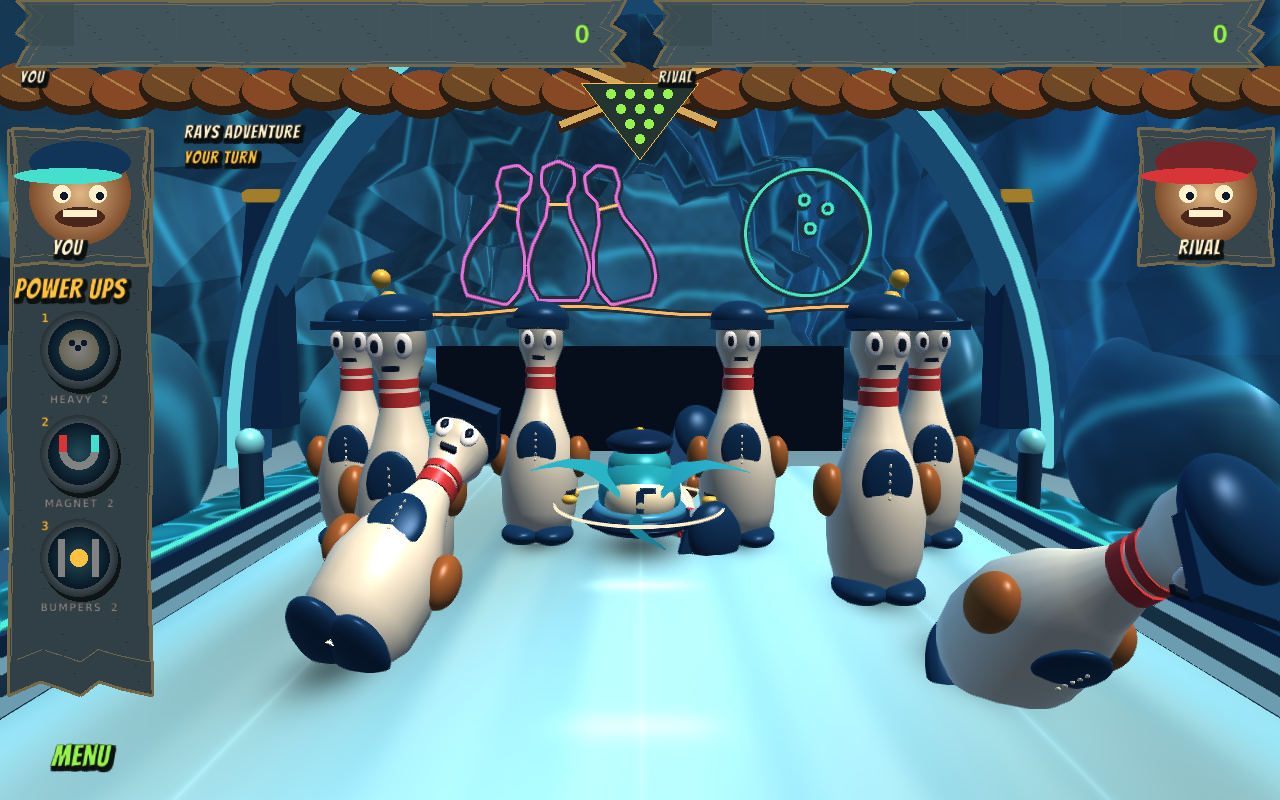
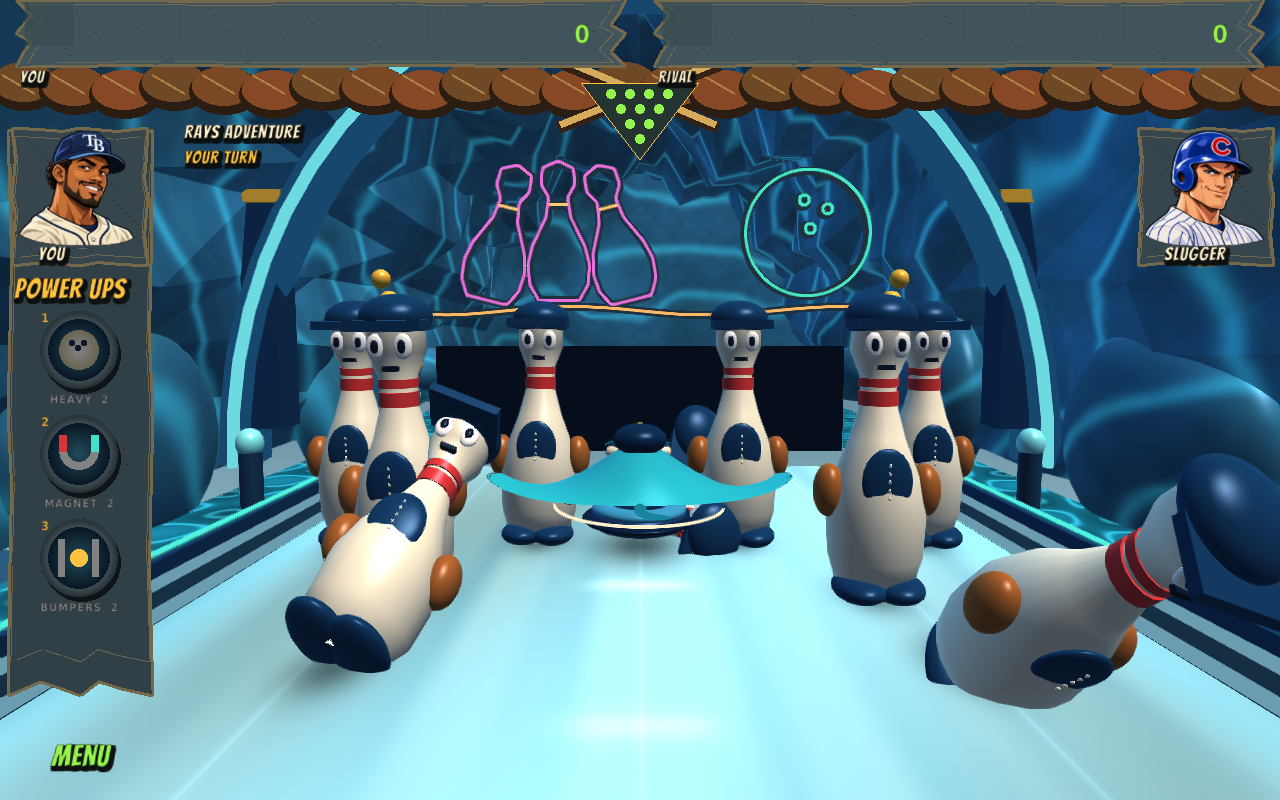
Rebuild ray mascot mesh and introduce illustrated baseball rivals

Changed region(s): [[0.375, 0.5312, 0.625, 0.6875], [0.875, 0.1562, 1.0, 0.3438], [0.0, 0.1562, 0.125, 0.3438]]

diff --git a/native/src/art.hpp b/native/src/art.hpp
@@ -1,5 +1,6 @@
 #pragma once
 #include "campaign.hpp"
+#include "ray_model.hpp"
 #include "raylib.h"
 #include "raymath.h"
 #include "rlgl.h"
@@ -7,7 +8,7 @@
 namespace geo = bowling::geometry;
 inline constexpr float sceneryDepthScale = geo::sceneryDepthScale;
 struct Art {
-    Model cube{}, sphere{}, cylinder{}, pin{}, wing{}, tube{}, course{};
+    Model cube{}, sphere{}, cylinder{}, pin{}, wing{}, tube{}, course{}, rayBody{};
     Shader shader{};
     std::array<Texture2D, 64> skins{};
     RenderTexture2D scoreboard{};
@@ -162,9 +163,10 @@ void main(){uv=vertexTexCoord;normal=normalize(mat3(matNormal)*vertexNormal);wor
         cylinder = LoadModelFromMesh(GenMeshCylinder(1, 1, 16));
         pin = LoadModelFromMesh(pinMesh());
         wing = LoadModelFromMesh(wingMesh());
+        rayBody = LoadModelFromMesh(makeRayBody());
         tube = LoadModelFromMesh(tubeMesh());
         course = LoadModelFromMesh(courseMesh());
-        for (Model *m : {&cube, &sphere, &cylinder, &pin, &wing, &tube, &course})
+        for (Model *m : {&cube, &sphere, &cylinder, &pin, &wing, &tube, &course, &rayBody})
             m->materials[0].shader = shader;
     }
     void box(Vector3 p, Vector3 scale, Color c) {
@@ -466,53 +468,57 @@ void main(){uv=vertexTexCoord;normal=normalize(mat3(matNormal)*vertexNormal);wor
             for (float z : {-.20f, .20f})
                 orb({side * .96f, .12f, z}, {.11f, .07f, .08f}, gold);
         }
-        orb({0, .19f, 0}, {.58f, .50f, .69f}, {31, 155, 176, 255});
-        orb({0, .16f, -.30f}, {.49f, .39f, .42f}, cream);
-        box({0, .20f, -.704f}, {.10f, .31f, .025f}, {18, 58, 97, 255});
-        box({-.10f, .35f, -.69f}, {.22f, .07f, .025f}, {18, 58, 97, 255});
-        for (int side : {-1, 1}) {
-            rlPushMatrix();
-            if (side < 0)
-                rlScalef(-1, 1, 1);
-            rlDisableBackfaceCulling();
-            rlRotatef(10 + std::sin(time * 6) * 7, 0, 0, 1);
-            DrawModel(wing, {0, .05f, 0}, 1.08f, {32, 161, 182, 255});
-            rlEnableBackfaceCulling();
-            rlPopMatrix();
-        }
+        // Unified ray: swept fins, domed back and ivory underside, rather than a humanoid torso.
         rlPushMatrix();
-        rlTranslatef(0, .50f, .1f);
-        if (ready)
-            rlRotatef(155 + std::sin(time) * 8, 0, 1, 0);
-        orb({0, .05f, .03f}, {.45f, .31f, .46f}, {40, 164, 182, 255});
-        orb({0, -.06f, .32f}, {.34f, .15f, .24f}, {173, 222, 215, 255});
-        for (float x : {-.19f, .19f}) {
-            float blink = std::fmod(time + 1, 5) < .13f ? .03f : .14f;
-            orb({x, .19f, .36f}, {.145f, blink, .10f}, WHITE);
-            orb({x, .20f, .44f}, {.068f, blink * .8f, .03f}, {20, 48, 68, 255});
-            orb({x - .02f, .24f, .465f}, {.023f, .027f, .01f}, WHITE);
-            beam({x - .10f, .36f, .35f}, {x + .08f, .34f, .35f}, .022f, ink);
+        rlTranslatef(0, .12f, 0);
+        rlRotatef(ready ? 180.f + std::sin(time * 1.5f) * 5.f : bank * 2, 0, 1, 0);
+        rlRotatef(std::sin(time * 4) * 2.5f, 0, 0, 1);
+        rlDisableBackfaceCulling();
+        DrawModel(rayBody, {0, 0, 0}, 1, WHITE);
+        rlEnableBackfaceCulling();
+        // Almond eyes sit on the face, with small highlights and a soft lower eyelid.
+        for (int side : {-1, 1}) {
+            float x = side * .28f, blink = std::fmod(time + 1, 5) < .12f ? .025f : .115f;
+            orb({x, .55f, .57f}, {.205f, blink, .125f}, cream);
+            orb({x - side * .025f, .56f, .677f}, {.089f, blink * .8f, .043f}, {12, 47, 73, 255});
+            orb({x - side * .045f, .61f, .712f}, {.027f, .031f, .012f}, WHITE);
+            for (int i = 0; i < 12; ++i) {
+                float t = i / 11.f;
+                Vector3 a{x - .18f + t * .36f, .66f + .055f * std::sin(t * PI), .61f};
+                Vector3 b{x - .18f + (t + .09f) * .36f, .66f + .055f * std::sin((t + .09f) * PI), .61f};
+                beam(a, b, .018f, {16, 85, 105, 255});
+            }
         }
-        for (int i = 0; i < 8; ++i) {
-            float a = PI * .15f + i * PI * .7f / 7;
-            orb({std::cos(a) * .20f, -.04f - std::sin(a) * .055f, .53f}, {.04f, .018f, .015f}, ink);
+        // Wide curved smile follows the snout, with a continuous ivory teeth ribbon.
+        for (int i = 0; i < 24; ++i) {
+            float x = -.39f + i * .0325f, xx = x + .0325f;
+            float y = .39f - .09f * (1 - x * x / .1521f), yy = .39f - .09f * (1 - xx * xx / .1521f);
+            beam({x, y, .93f}, {xx, yy, .93f}, .032f, {12, 54, 73, 255});
+            beam({x, y + .022f, .95f}, {xx, yy + .022f, .95f}, .012f, cream);
         }
-        orb({0, .38f, 0}, {.47f, .18f, .44f}, {15, 42, 79, 255});
-        orb({0, .34f, .38f}, {.50f, .055f, .34f}, {19, 56, 94, 255});
-        orb({0, .56f, 0}, {.055f, .035f, .055f}, gold);
-        box({0, .43f, .41f}, {.09f, .15f, .02f}, cream);
-        box({0, .49f, .41f}, {.23f, .04f, .02f}, cream);
-        rlPopMatrix();
-        Vector3 last{0, 0, -.5f};
-        for (int i = 1; i <= 10; ++i) {
-            float t = i / 10.f;
-            Vector3 next{std::sin(time * 3 + t * 3) * t * .30f, -.04f - t * .1f, -.5f - t * 1.2f};
-            DrawCylinderEx(last, next, .12f * (1 - t) + .015f, .1f * (1 - t) + .008f, 10,
-                           {27, 129, 153, 255});
+        // Small backward-set cap keeps the face unobstructed.
+        orb({0, .83f, -.13f}, {.37f, .22f, .34f}, {12, 39, 75, 255});
+        orb({0, .72f, .12f}, {.41f, .035f, .29f}, {18, 56, 93, 255});
+        orb({0, 1.05f, -.13f}, {.035f, .025f, .035f}, gold);
+        sign(teamLogos[9], {0, .81f, .212f}, -.24f, .20f, true);
+        // Flexible, tapered whip tail trails behind the whole body.
+        Vector3 last{0, .09f, -.95f};
+        for (int i = 1; i <= 30; ++i) {
+            float t = i / 30.f;
+            Vector3 next{std::sin(time * 3 - t * 4) * t * .32f, .09f + .26f * t * t, -.95f - t * 1.65f};
+            DrawCylinderEx(last, next, .065f * (1 - (t - 1.f / 30)) + .008f, .065f * (1 - t) + .008f, 12,
+                           {26, 131, 157, 255});
             last = next;
         }
+        // Gill lines on the shoulders add readable anatomy without extra body lumps.
+        for (int side : {-1, 1})
+            for (int i = 0; i < 3; ++i)
+                beam({side * (.5f + i * .08f), .46f - i * .04f, .05f},
+                     {side * (.53f + i * .08f), .40f - i * .04f, -.16f}, .012f, {16, 104, 125, 255});
+        rlPopMatrix();
         rlPopMatrix();
     }
+
     void landmarks(float time) {
         Color brick = {145, 72, 48, 255};
         if (arena == 0)
@@ -979,7 +985,8 @@ void main(){uv=vertexTexCoord;normal=normalize(mat3(matNormal)*vertexNormal);wor
         }
         if (aim && mascot) {
             float pull = slingPower * 2.7f;
-            Vector3 center{ballPos.x + shot.aim * 1.6f, .70f, ballPos.z - pull};
+            // Sling attaches to the front of the tube, below the ray's fins.
+            Vector3 center{ballPos.x + shot.aim * 1.6f, .40f, ballPos.z - pull - 1.f};
             for (int side : {-1, 1}) {
                 cyl({side * 4.8f, .04f, 2.4f}, .24f, 1.3f, {24, 69, 110, 255});
                 orb({side * 4.8f, 1.4f, 2.4f}, {.31f, .34f, .31f}, gold);
@@ -999,7 +1006,7 @@ void main(){uv=vertexTexCoord;normal=normalize(mat3(matNormal)*vertexNormal);wor
         EndMode3D();
     }
     void close() {
-        for (Model m : {cube, sphere, cylinder, pin, wing, tube, course})
+        for (Model m : {cube, sphere, cylinder, pin, wing, tube, course, rayBody})
             UnloadModel(m);
         for (auto t : skins)
             UnloadTexture(t);

diff --git a/native/src/ray_model.hpp b/native/src/ray_model.hpp
@@ -1,0 +1,70 @@
+#pragma once
+#include "raylib.h"
+#include "raymath.h"
+#include <cmath>
+// A single closed, smooth stingray body. Upper and lower surfaces meet at the fin edge.
+inline Mesh makeRayBody() {
+    constexpr int rings = 18, sides = 96;
+    Mesh m{};
+    m.vertexCount = 2 * rings * sides * 6;
+    m.triangleCount = m.vertexCount / 3;
+    m.vertices = (float *)MemAlloc(m.vertexCount * 3 * sizeof(float));
+    m.normals = (float *)MemAlloc(m.vertexCount * 3 * sizeof(float));
+    m.texcoords = (float *)MemAlloc(m.vertexCount * 2 * sizeof(float));
+    m.colors = (unsigned char *)MemAlloc(m.vertexCount * 4);
+    auto point = [](float r, float a, bool top) {
+        float s = std::sin(a), c = std::cos(a);
+        float x = 2.05f * s * r,
+              z = (c * (c > 0 ? .98f : 1.12f) - .36f * std::pow(std::abs(s), 3.f)) * r;
+        float center = std::exp(-x * x * 1.4f) * (1 - r * r);
+        float edge = .13f + .26f * r * r * r * std::pow(std::abs(s), 4.f);
+        return Vector3{x, edge + (top ? .61f : -.16f) * center, z};
+    };
+    int n = 0;
+    auto put = [&](float r, float a, bool top) {
+        Vector3 p = point(r, a, top);
+        float e = .001f;
+        Vector3 tangent = Vector3Subtract(point(std::max(.001f, r), a + e, top),
+                                          point(std::max(.001f, r), a - e, top));
+        Vector3 radial = Vector3Subtract(point(r + e, a, top), point(r - e, a, top));
+        Vector3 normal = Vector3Normalize(Vector3CrossProduct(tangent, radial));
+        if ((top && normal.y < 0) || (!top && normal.y > 0))
+            normal = Vector3Negate(normal);
+        m.vertices[n * 3] = p.x;
+        m.vertices[n * 3 + 1] = p.y;
+        m.vertices[n * 3 + 2] = p.z;
+        m.normals[n * 3] = normal.x;
+        m.normals[n * 3 + 1] = normal.y;
+        m.normals[n * 3 + 2] = normal.z;
+        m.texcoords[n * 2] = p.x / 4.2f + .5f;
+        m.texcoords[n * 2 + 1] = p.z / 2.4f + .5f;
+        Color color = top ? Color{35, (unsigned char)(153 + 30 * r), (unsigned char)(179 + 25 * r), 255}
+                          : Color{229, 234, 202, 255};
+        for (int j = 0; j < 4; ++j)
+            m.colors[n * 4 + j] = ((unsigned char *)&color)[j];
+        ++n;
+    };
+    for (bool top : {true, false})
+        for (int r = 0; r < rings; ++r)
+            for (int a = 0; a < sides; ++a) {
+                float r0 = float(r) / rings, r1 = float(r + 1) / rings, a0 = a * 2 * PI / sides,
+                      a1 = (a + 1) * 2 * PI / sides;
+                if (top) {
+                    put(r0, a0, top);
+                    put(r1, a1, top);
+                    put(r1, a0, top);
+                    put(r0, a0, top);
+                    put(r0, a1, top);
+                    put(r1, a1, top);
+                } else {
+                    put(r0, a0, top);
+                    put(r1, a0, top);
+                    put(r1, a1, top);
+                    put(r0, a0, top);
+                    put(r1, a1, top);
+                    put(r0, a1, top);
+                }
+            }
+    UploadMesh(&m, false);
+    return m;
+}

diff --git a/native/src/ui.hpp b/native/src/ui.hpp
@@ -48,7 +48,7 @@ inline void panel(Rectangle r, Color c) {
         DrawLine(x, y, x + 3, y + 1, {0, 0, 0, 30});
     }
 }
-inline void baseballHud() {
+inline void baseballHud(Texture2D portraits, int rival) {
     // Interlocking leather pads and crossed bats frame the scene below the scores.
     for (int i = 0; i < 26; ++i) {
         float x = i * 50.f;
@@ -67,20 +67,16 @@ inline void baseballHud() {
             DrawCircle(640 + (col - row * .5f) * 19, 139 - row * 15, 5, {150, 242, 77, 255});
     panel({8, 130, 145, 566}, {49, 64, 70, 255});
     title("POWER UPS", 14, 274, 30, gold);
-    // Original baseball character portraits, framed like collectible player cards.
+    // Vector-style illustrated busts replace the primitive oval/rectangle faces.
+    const char *names[] = {"YOU", "SLUGGER", "UMPIRE", "BALL BOY"};
     for (int side = 0; side < 2; ++side) {
         float x = side ? 1206 : 80;
+        int who = side ? rival : 0;
         panel({x - 68, 128, 136, 138}, {54, 70, 76, 255});
-        DrawCircleGradient(x, 194, 51, {224, 183, 130, 255}, {126, 77, 44, 255});
-        DrawEllipse(x, 162, 51, 21, side ? Color{116, 37, 39, 255} : Color{16, 53, 88, 255});
-        DrawEllipse(x - 12, 176, 54, 8, side ? red : aqua);
-        DrawCircle(x - 18, 194, 9, cream);
-        DrawCircle(x + 18, 194, 9, cream);
-        DrawCircle(x - 16, 196, 4, ink);
-        DrawCircle(x + 20, 196, 4, ink);
-        DrawEllipse(x, 217, 25, 10, {75, 39, 27, 255});
-        DrawRectangle(x - 17, 210, 34, 7, cream);
-        title(side ? "RIVAL" : "YOU", x - 28, 236, 23, cream);
+        float w = portraits.width / 2.f, h = portraits.height / 2.f;
+        DrawTexturePro(portraits, {(who % 2) * w, (who / 2) * h, w, h}, {x - 63, 130, 126, 119}, {0, 0},
+                       0, WHITE);
+        title(names[who], x - 42, 244, 20, cream);
     }
 }
 inline void arcadeMeter(float x, float y, float power, Color c) {

diff --git a/native/src/main.cpp b/native/src/main.cpp
@@ -102,6 +102,12 @@ int main(int argc, char **argv) {
         throw std::runtime_error("Missing title-screen.png beside executable");
     GenTextureMipmaps(&titleArt);
     SetTextureFilter(titleArt, TEXTURE_FILTER_TRILINEAR);
+    Texture2D portraits =
+        LoadTexture((std::string(GetApplicationDirectory()) + "assets/baseball-portraits.png").c_str());
+    if (!portraits.id)
+        throw std::runtime_error("Missing baseball-portraits.png");
+    GenTextureMipmaps(&portraits);
+    SetTextureFilter(portraits, TEXTURE_FILTER_TRILINEAR);
     Audio audio;
     audio.init();
     const char *dir = std::getenv("APPDATA");
@@ -508,7 +514,7 @@ int main(int argc, char **argv) {
                 screen = 0;
             text("Equipped: " + ballName(skin), 30, 745, 20, aqua);
         } else {
-            baseballHud();
+            baseballHud(portraits, 1 + arena % 3);
             scoreCard(match.games[0], 16, gold, "YOU");
             scoreCard(match.games[1], 654, aqua, "RIVAL");
             title(match.mascot ? "RAYS ADVENTURE" : arenas[arena].name, 184, 122, 20, cream);
@@ -615,6 +621,7 @@ int main(int argc, char **argv) {
         }
     }
     audio.close();
+    UnloadTexture(portraits);
     UnloadTexture(titleArt);
     UnloadFont(arcadeFont);
     UnloadFont(uiFont);

diff --git a/native/docs/VALIDATION.md b/native/docs/VALIDATION.md
@@ -1,3 +1,10 @@
+# Character artwork and ray model milestone
+
+- Native scoring, geometry, pacing, physics and campaign tests pass. Lane dimensions, cameras, throw speed, physics body and input mappings are unchanged.
+- The ray uses a new closed 3D mesh with smooth normals, continuous swept fins and colored upper/lower surfaces. Face, cap, tapered animated tail, banking and tube are rendered in 3D. Sling attachment was lowered to the tube to avoid crossing the fins.
+- Launch and pin-impact views inspected in both modes. Umpire and ball-boy stadium previews verify portrait atlas selection; the helmet batter and Rays player also display correctly. Portraits are vector-style raster artwork, not editable SVGs.
+- Windows build and NSIS installer compile checked; ZIP CRC and packaged artwork compared to source. Windows runtime remains unverified.
+
 # Illustrated title / pacing / floor shader milestone
 
 - Original illustrated title-screen texture is packaged, with native menu hit targets. Real X11 mouse navigation verified Help → Back, Scores → Back, Locker → Back, Single Player → Setup → Gameplay, and Mascot Adventure → Setup → Gameplay. Preview tracing confirmed screen and mode transitions. F12 captures/exits when using --screenshot for interactive verification.

diff --git a/native/ART_DIRECTION.md b/native/ART_DIRECTION.md
@@ -1,3 +1,5 @@
+Character direction: use the illustrated baseball-portraits.png HUD atlas, not primitive geometric faces. Ray mascot uses the continuous 3D body in ray_model.hpp, with broad fins, cream underside and expressive face; do not replace it with a sprite.
+
 Authoritative latest visual reference: the user supplied Zombies graveyard screenshot. Long tapering lane, tiny distant rack, low cropped ball; decorative top frame, stitched score plaques, left-side power strip, portrait badges and free-standing arcade MENU lettering. No rectangular application-style buttons, including pause/results/clubhouse. Baseball theming remains. Lane run deliberately increased to 160 units; see PROPORTIONS.md latest section.
 
 Latest stadium identity pass: actual sourced stadium wordmarks and MLB marks in native/assets/parks (provenance in SOURCES.md), layered video graphics and steel trusses. Tropicana has a wide screen, catwalk and orange landmark. Stadium ready camera intentionally reframed; world geometry remains 80×10. See native/PROPORTIONS.md for the projected-view regression guard. Existing ten-park roster unchanged; Citi, Comerica and Rate photos inform presentation only.

diff --git a/HANDOFF.md b/HANDOFF.md
@@ -1,3 +1,5 @@
+Latest character pass: vector-style baseball HUD portraits replace primitive faces; rivals cycle helmet batter/umpire/ball boy by stadium. Actual ray 3D body rebuilt in native/src/ray_model.hpp with swept fins and ivory underside; art.hpp supplies face, tail, cap and tube. No lane, speed or input changes. See native/assets/CHARACTER_ART.md.
+
 Latest: illustrated native title screen with real bottom menu controls. Screen0 title, 1 gameplay, 2 locker, 3 match setup, 4 career, 5 help. Enter/Single Player goes to setup; Escape returns to title from submenus. Full-power travel tuned to ~3.5s with lane dimensions unchanged. Signed floor pow() expressions replaced to address driver-dependent black half-lane. Windows graphics fix requires user-machine confirmation.
 
 Latest milestone uses the supplied graveyard screenshot as composition reference: 160-unit lane and original baseball arcade HUD, no boxed gameplay/menu buttons. Bangers display font and OFL are packaged. Read latest sections of native/PROPORTIONS.md and native/ART_DIRECTION.md before editing.

diff --git a/native/assets/CHARACTER_ART.md b/native/assets/CHARACTER_ART.md
@@ -1,0 +1,5 @@
+# Character art
+
+baseball-portraits.png is an original AI-generated transparent, vector-style portrait atlas. It is raster artwork, not an editable SVG. Quadrants: Rays player, Cubs helmet batter, umpire, ball boy. Club insignia identify the depicted baseball outfits; characters are fictional. Rival appearances cycle by stadium and do not change AI difficulty. Player portrait uses the Rays cap.
+
+The ray is real 3D geometry, not this atlas: src/ray_model.hpp builds a continuous closed upper/lower body with swept fins, smooth normals, colored dorsal surface and ivory underside. art.hpp adds sculpted facial features, a cap, a tapered animated tail and the existing tube. Ready stance turns the whole animal toward the camera; rolling faces down-course with banking. Its physics collision body, sling controls, lane dimensions and speed remain unchanged.
